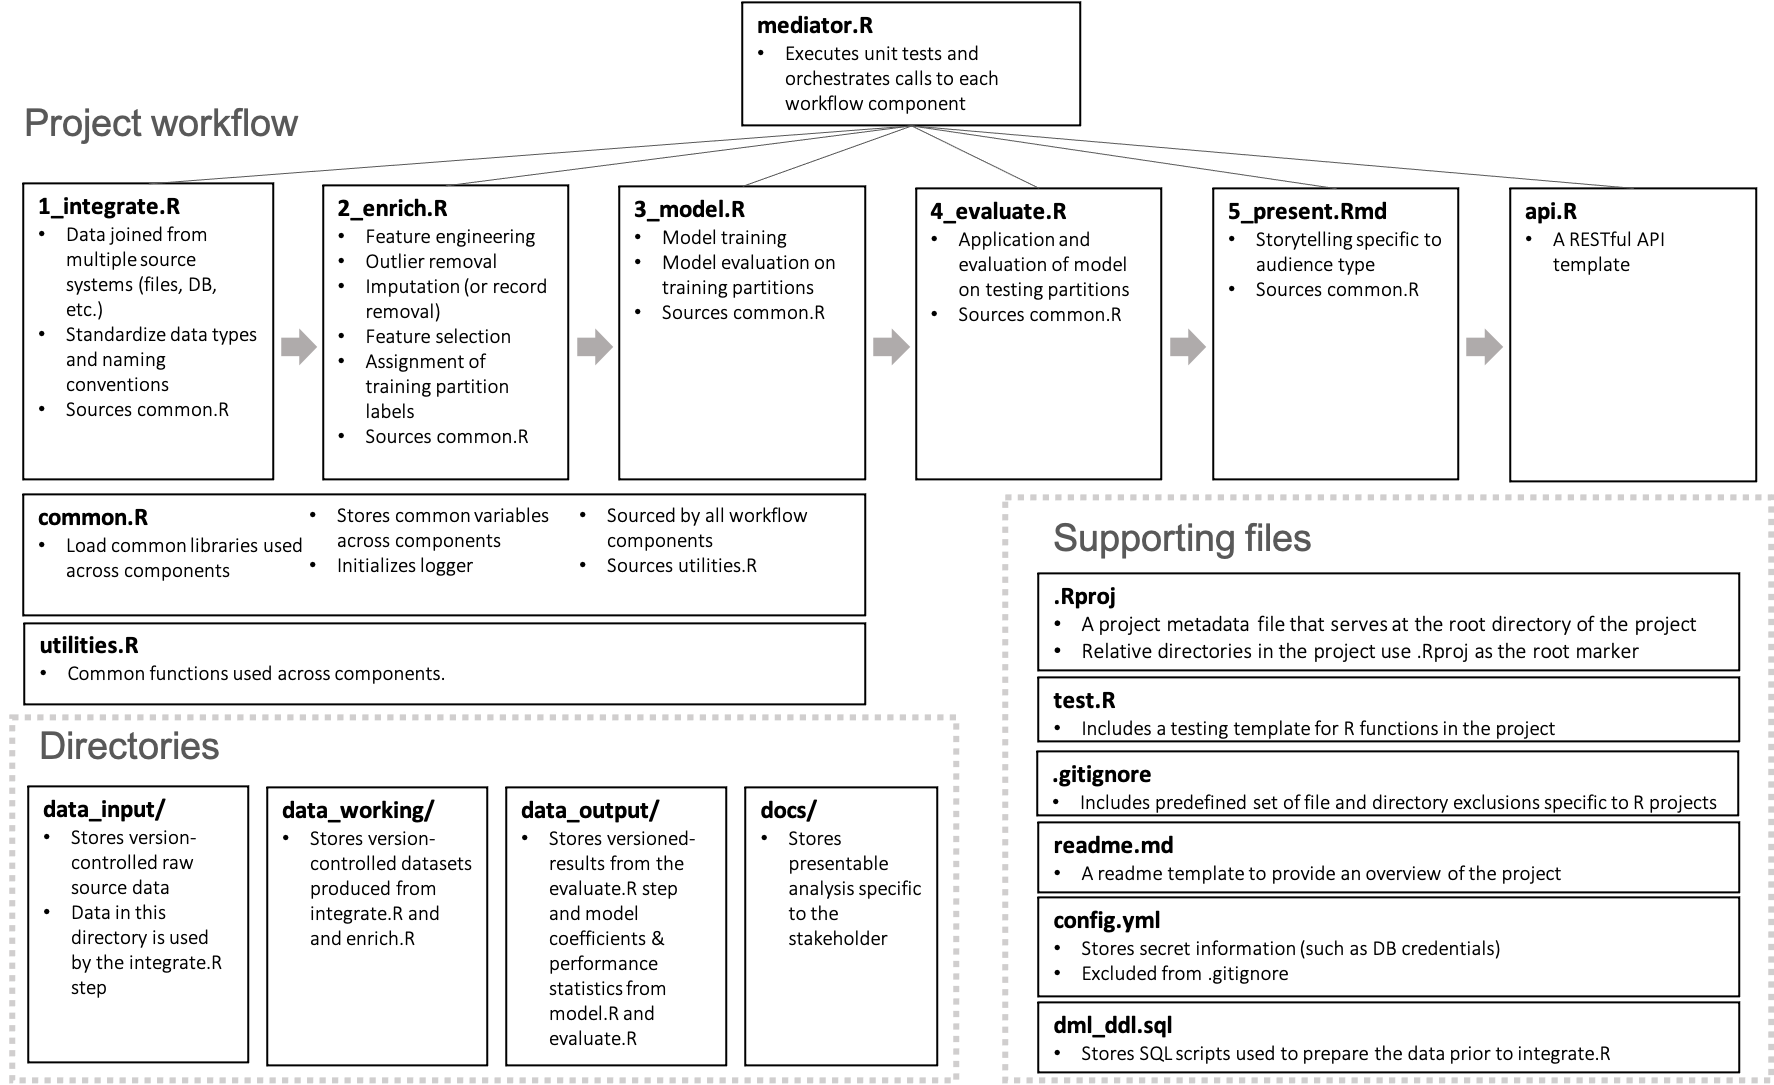
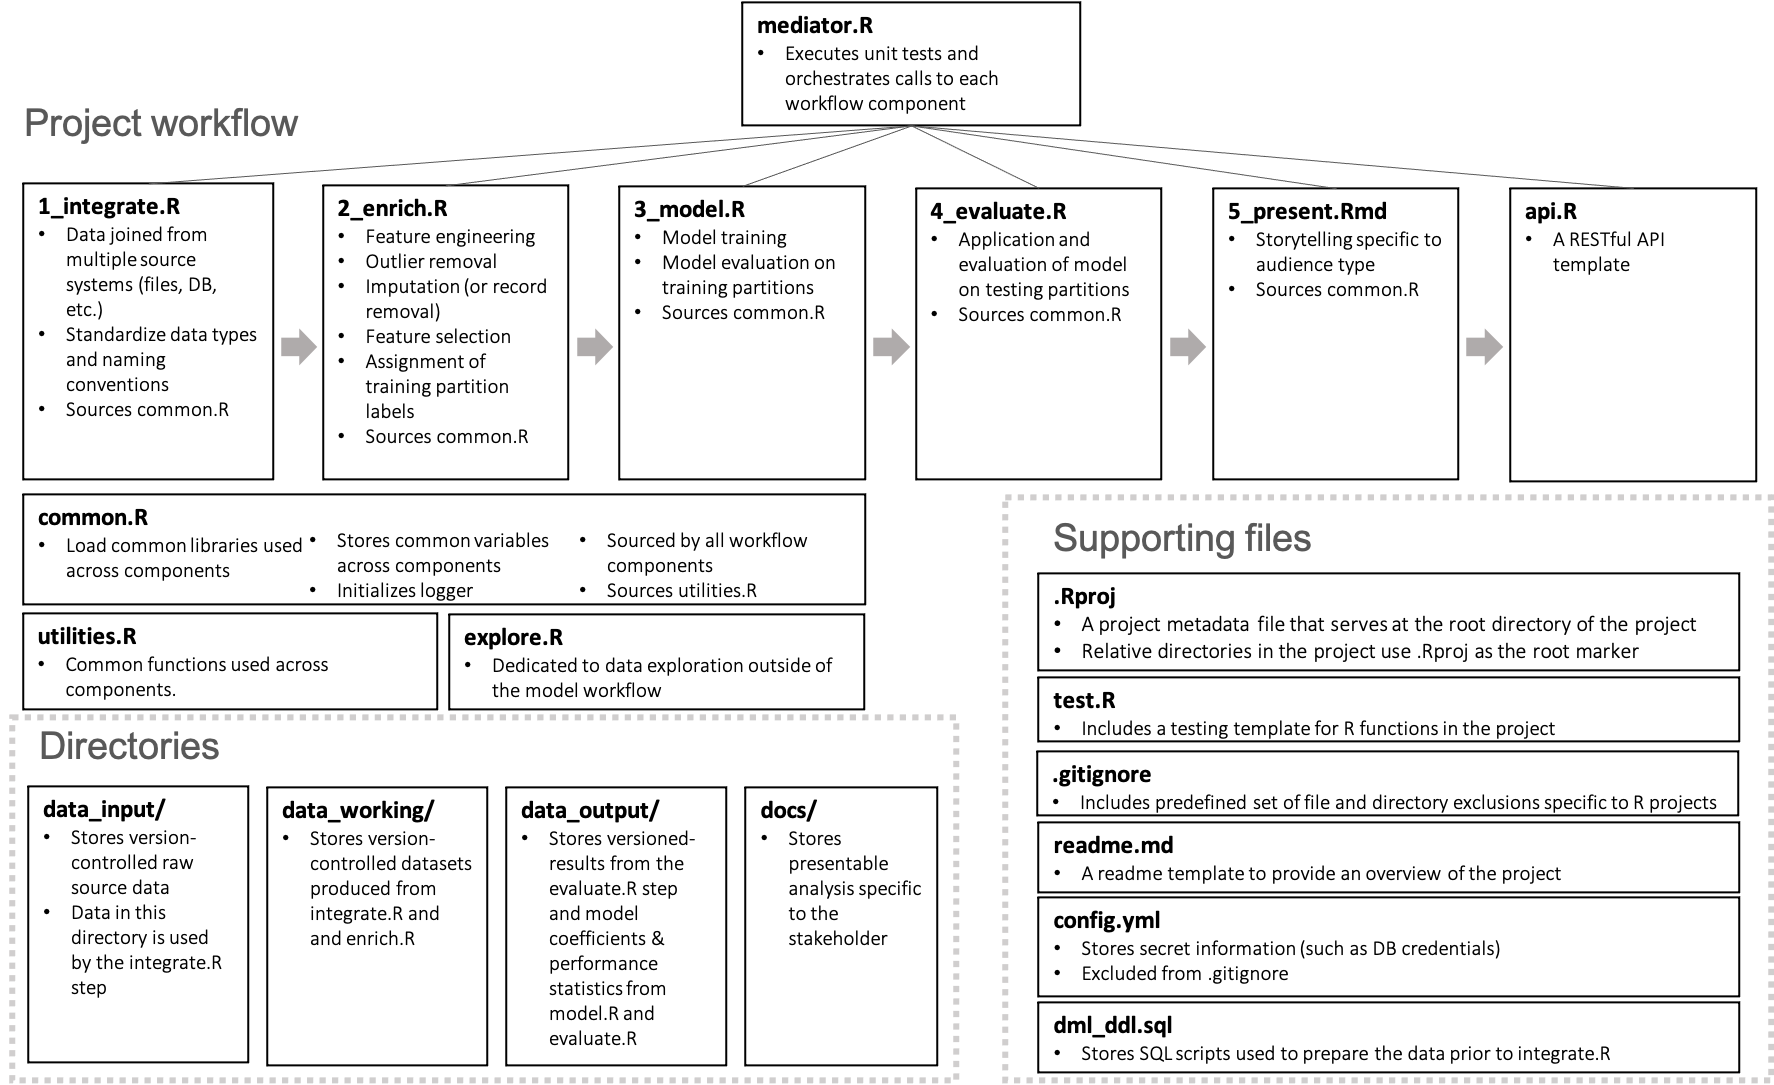
adding a visual diagram of the file and directory structure

Changed region(s): [[0.0, 0.4562, 0.4961, 0.6691]]

diff --git a/docs/articles/archetyper.html b/docs/articles/archetyper.html
@@ -75,7 +75,7 @@
     <div class="page-header toc-ignore">
       <h1 data-toc-skip>Introduction to archetyper</h1>
             
-            <h4 class="date">2021-03-10</h4>
+            <h4 class="date">2021-03-11</h4>
       
       <small class="dont-index">Source: <a href="https://github.com/mkorvink/archetyper/blob/master/vignettes/archetyper.Rmd"><code>vignettes/archetyper.Rmd</code></a></small>
       <div class="hidden name"><code>archetyper.Rmd</code></div>
@@ -180,13 +180,20 @@
 <h3 class="hasAnchor">
 <a href="#database-connections" class="anchor"></a>Database connections</h3>
 <p>A database connection type of “odbc” or “jdbc” can be passed in as a function argument to generate scaffolding helpful for database connections.</p>
+<p><strong>ODBC</strong></p>
 <p>A db_connection argument of ‘odbc’ will generate a connection code snippet in the integrate.R file.</p>
 <div class="sourceCode" id="cb4"><pre class="downlit sourceCode r">
 <code class="sourceCode R"><span class="kw"><a href="https://rdrr.io/r/base/library.html">library</a></span><span class="op">(</span><span class="va"><a href="https://github.com/r-dbi/odbc">odbc</a></span><span class="op">)</span>
 <span class="va">con</span> <span class="op">&lt;-</span> <span class="fu"><a href="https://rdrr.io/pkg/odbc/man/dbConnect-OdbcDriver-method.html">dbConnect</a></span><span class="op">(</span><span class="fu">odbc</span><span class="fu">::</span><span class="fu"><a href="https://rdrr.io/pkg/odbc/man/odbc.html">odbc</a></span><span class="op">(</span><span class="op">)</span>, <span class="st">"dev_database"</span><span class="op">)</span>
 <span class="va">sql</span> <span class="op">&lt;-</span> <span class="st">"select my_value from my_table"</span>
 <span class="va">result_df</span> <span class="op">&lt;-</span> <span class="fu">dbGetQuery</span><span class="op">(</span><span class="va">con</span>, <span class="va">sql</span><span class="op">)</span></code></pre></div>
+<p>A file to store the database DML and DDL (for data preparation occurring in the database prior to the integration step) is additionally generated when using ‘odbc’:</p>
+<ul>
+<li>
+<code>dml_ddl.sql</code> stores SQL statements and other database scripts used to prepare and extract data from the source systems.</li>
+</ul>
 <p>Note that when using odbc, the user must update the appropriate odbc configuration files (e.g. odbcinst.ini, odbc.ini)</p>
+<p><strong>JDBC</strong></p>
 <p>The following files and directories will be created with a ‘jdbc” argument:</p>
 <ul>
 <li>
@@ -196,7 +203,7 @@
 <li>
 <code>drivers/</code> is directory for storing database driver jars. Note that the user must provide the jars and classpath names to the jars specific to the database type being accessed.</li>
 </ul>
-<p>A db_connection argument of ‘jdbc’ will additionally generate a connection code snippet in the integrate.R file.</p>
+<p>A db_connection argument of ‘jdbc’ will additionally generate a connection code snippet in the integrate.R file. Note that the credentials are sourced from the config.yml file so that they are not exposed in the source code. The config.yml file is ignored in the .gitignore file so that it is not committed to source.</p>
 <div class="sourceCode" id="cb5"><pre class="downlit sourceCode r">
 <code class="sourceCode R"><span class="kw"><a href="https://rdrr.io/r/base/library.html">library</a></span><span class="op">(</span><span class="va"><a href="http://www.rforge.net/RJDBC/">RJDBC</a></span><span class="op">)</span>
 <span class="va">db_credentials</span> <span class="op">&lt;-</span> <span class="fu">config</span><span class="fu">::</span><span class="fu"><a href="https://rdrr.io/pkg/config/man/get.html">get</a></span><span class="op">(</span><span class="st">"dev_database"</span><span class="op">)</span>
@@ -204,7 +211,7 @@
 <span class="va">con</span> <span class="op">&lt;-</span> <span class="fu"><a href="https://rdrr.io/pkg/odbc/man/dbConnect-OdbcDriver-method.html">dbConnect</a></span><span class="op">(</span><span class="va">drv</span>,<span class="va">db_credentials</span><span class="op">$</span><span class="va">connection_string</span>, <span class="va">db_credentials</span><span class="op">$</span><span class="va">username</span>, <span class="va">db_credentials</span><span class="op">$</span><span class="va">password</span><span class="op">)</span>
 <span class="va">sql</span> <span class="op">&lt;-</span> <span class="st">"select my_value from my_table"</span>
 <span class="va">result_df</span> <span class="op">&lt;-</span> <span class="fu">dbGetQuery</span><span class="op">(</span><span class="va">con</span>, <span class="va">sql</span><span class="op">)</span></code></pre></div>
-<p>When using a JDBC connection, the user must provide appropriate driver JARs in the drivers/ directory, as well as user credentials, class path, and connection string in the .yml file.</p>
+<p>When using a JDBC connection, the user must provide appropriate driver JARs in the drivers/ directory, as well as user credentials, class path, and connection string in the config.yml file.</p>
 <div class="sourceCode" id="cb6"><pre class="sourceCode r"><code class="sourceCode r"><span id="cb6-1"><a href="#cb6-1"></a><span class="kw">generate</span>(<span class="st">"majestic_12"</span>, <span class="dt">db_connection_type =</span> <span class="st">'jdbc'</span>)</span>
 <span id="cb6-2"><a href="#cb6-2"></a><span class="kw">list.files</span>(project_path)</span>
 <span id="cb6-3"><a href="#cb6-3"></a></span>

diff --git a/docs/index.html b/docs/index.html
@@ -79,6 +79,8 @@
 <h2 class="hasAnchor">
 <a href="#overview" class="anchor"></a>Overview</h2>
 <p>archetyper initializes data mining and data science projects by generating common workflow components as well as peripheral files needed to support technical best practices.</p>
+<p><br></p>
+<p><img src="reference/figures/flow.png"></p>
 <div id="development-version" class="section level3">
 <h3 class="hasAnchor">
 <a href="#development-version" class="anchor"></a>Development version</h3>
@@ -93,18 +95,16 @@
 <a href="#usage" class="anchor"></a>Usage</h2>
 <p>A new project can be instantiated using the generate() function.</p>
 <div class="sourceCode" id="cb2"><pre class="sourceCode r"><code class="sourceCode r"><span id="cb2-1"><a href="#cb2-1"></a><span class="co">#&gt; library(archetyper)</span></span>
-<span id="cb2-2"><a href="#cb2-2"></a></span>
-<span id="cb2-3"><a href="#cb2-3"></a><span class="co">#&gt; archetyper::generate("majestic_12")</span></span>
-<span id="cb2-4"><a href="#cb2-4"></a></span>
-<span id="cb2-5"><a href="#cb2-5"></a><span class="co">#&gt; list.files("majestic_12/")</span></span>
-<span id="cb2-6"><a href="#cb2-6"></a>[<span class="dv">1</span>] <span class="st">"data_input"</span>        <span class="st">"data_output"</span>       <span class="st">"data_working"</span>      <span class="st">"docs"</span>             </span>
-<span id="cb2-7"><a href="#cb2-7"></a>[<span class="dv">5</span>] <span class="st">"majestic_12.Rproj"</span> <span class="st">"models"</span>            <span class="st">"R"</span>                 <span class="st">"readme.md"</span></span>
-<span id="cb2-8"><a href="#cb2-8"></a>[<span class="dv">9</span>] <span class="st">".gitignore"</span></span>
-<span id="cb2-9"><a href="#cb2-9"></a></span>
-<span id="cb2-10"><a href="#cb2-10"></a><span class="co">#&gt; list.files("majestic_12/R")</span></span>
-<span id="cb2-11"><a href="#cb2-11"></a> [<span class="dv">1</span>] <span class="st">"0_test.R"</span>      <span class="st">"1_integrate.R"</span> <span class="st">"2_enrich.R"</span>    <span class="st">"3_model.R"</span>     <span class="st">"4_evaluate.R"</span> </span>
-<span id="cb2-12"><a href="#cb2-12"></a> [<span class="dv">6</span>] <span class="st">"5_present.Rmd"</span> <span class="st">"api.R"</span>         <span class="st">"common.R"</span>      <span class="st">"explore.R"</span>     <span class="st">"lint.R"</span>       </span>
-<span id="cb2-13"><a href="#cb2-13"></a>[<span class="dv">11</span>] <span class="st">"mediator.R"</span>    <span class="st">"utilities.R"</span></span></code></pre></div>
+<span id="cb2-2"><a href="#cb2-2"></a><span class="co">#&gt; archetyper::generate("majestic_12")</span></span>
+<span id="cb2-3"><a href="#cb2-3"></a><span class="co">#&gt; list.files("majestic_12/")</span></span>
+<span id="cb2-4"><a href="#cb2-4"></a>[<span class="dv">1</span>] <span class="st">"data_input"</span>        <span class="st">"data_output"</span>       <span class="st">"data_working"</span>      <span class="st">"docs"</span>             </span>
+<span id="cb2-5"><a href="#cb2-5"></a>[<span class="dv">5</span>] <span class="st">"majestic_12.Rproj"</span> <span class="st">"models"</span>            <span class="st">"R"</span>                 <span class="st">"readme.md"</span></span>
+<span id="cb2-6"><a href="#cb2-6"></a>[<span class="dv">9</span>] <span class="st">".gitignore"</span></span>
+<span id="cb2-7"><a href="#cb2-7"></a></span>
+<span id="cb2-8"><a href="#cb2-8"></a><span class="co">#&gt; list.files("majestic_12/R")</span></span>
+<span id="cb2-9"><a href="#cb2-9"></a> [<span class="dv">1</span>] <span class="st">"0_test.R"</span>      <span class="st">"1_integrate.R"</span> <span class="st">"2_enrich.R"</span>    <span class="st">"3_model.R"</span>     <span class="st">"4_evaluate.R"</span> </span>
+<span id="cb2-10"><a href="#cb2-10"></a> [<span class="dv">6</span>] <span class="st">"5_present.Rmd"</span> <span class="st">"api.R"</span>         <span class="st">"common.R"</span>      <span class="st">"explore.R"</span>     <span class="st">"lint.R"</span>       </span>
+<span id="cb2-11"><a href="#cb2-11"></a>[<span class="dv">11</span>] <span class="st">"mediator.R"</span>    <span class="st">"utilities.R"</span></span></code></pre></div>
 <p>A runnable demo project will be created with the generate_demo().</p>
 <div class="sourceCode" id="cb3"><pre class="downlit sourceCode r">
 <code class="sourceCode R"><span class="co">#&gt; archetyper::generate_demo()</span></code></pre></div>

diff --git a/docs/readme.html b/docs/readme.html
@@ -123,6 +123,8 @@
 <h2 class="hasAnchor">
 <a href="#overview" class="anchor"></a>Overview</h2>
 <p>archetyper initializes data mining and data science projects by generating common workflow components as well as peripheral files needed to support technical best practices.</p>
+<p><br></p>
+<p><img src="man/figures/flow.png"></p>
 <div id="development-version" class="section level3">
 <h3 class="hasAnchor">
 <a href="#development-version" class="anchor"></a>Development version</h3>
@@ -137,18 +139,16 @@
 <a href="#usage" class="anchor"></a>Usage</h2>
 <p>A new project can be instantiated using the generate() function.</p>
 <div class="sourceCode" id="cb2"><pre class="sourceCode r"><code class="sourceCode r"><span id="cb2-1"><a href="#cb2-1"></a><span class="co">#&gt; library(archetyper)</span></span>
-<span id="cb2-2"><a href="#cb2-2"></a></span>
-<span id="cb2-3"><a href="#cb2-3"></a><span class="co">#&gt; archetyper::generate("majestic_12")</span></span>
-<span id="cb2-4"><a href="#cb2-4"></a></span>
-<span id="cb2-5"><a href="#cb2-5"></a><span class="co">#&gt; list.files("majestic_12/")</span></span>
-<span id="cb2-6"><a href="#cb2-6"></a>[<span class="dv">1</span>] <span class="st">"data_input"</span>        <span class="st">"data_output"</span>       <span class="st">"data_working"</span>      <span class="st">"docs"</span>             </span>
-<span id="cb2-7"><a href="#cb2-7"></a>[<span class="dv">5</span>] <span class="st">"majestic_12.Rproj"</span> <span class="st">"models"</span>            <span class="st">"R"</span>                 <span class="st">"readme.md"</span></span>
-<span id="cb2-8"><a href="#cb2-8"></a>[<span class="dv">9</span>] <span class="st">".gitignore"</span></span>
-<span id="cb2-9"><a href="#cb2-9"></a></span>
-<span id="cb2-10"><a href="#cb2-10"></a><span class="co">#&gt; list.files("majestic_12/R")</span></span>
-<span id="cb2-11"><a href="#cb2-11"></a> [<span class="dv">1</span>] <span class="st">"0_test.R"</span>      <span class="st">"1_integrate.R"</span> <span class="st">"2_enrich.R"</span>    <span class="st">"3_model.R"</span>     <span class="st">"4_evaluate.R"</span> </span>
-<span id="cb2-12"><a href="#cb2-12"></a> [<span class="dv">6</span>] <span class="st">"5_present.Rmd"</span> <span class="st">"api.R"</span>         <span class="st">"common.R"</span>      <span class="st">"explore.R"</span>     <span class="st">"lint.R"</span>       </span>
-<span id="cb2-13"><a href="#cb2-13"></a>[<span class="dv">11</span>] <span class="st">"mediator.R"</span>    <span class="st">"utilities.R"</span></span></code></pre></div>
+<span id="cb2-2"><a href="#cb2-2"></a><span class="co">#&gt; archetyper::generate("majestic_12")</span></span>
+<span id="cb2-3"><a href="#cb2-3"></a><span class="co">#&gt; list.files("majestic_12/")</span></span>
+<span id="cb2-4"><a href="#cb2-4"></a>[<span class="dv">1</span>] <span class="st">"data_input"</span>        <span class="st">"data_output"</span>       <span class="st">"data_working"</span>      <span class="st">"docs"</span>             </span>
+<span id="cb2-5"><a href="#cb2-5"></a>[<span class="dv">5</span>] <span class="st">"majestic_12.Rproj"</span> <span class="st">"models"</span>            <span class="st">"R"</span>                 <span class="st">"readme.md"</span></span>
+<span id="cb2-6"><a href="#cb2-6"></a>[<span class="dv">9</span>] <span class="st">".gitignore"</span></span>
+<span id="cb2-7"><a href="#cb2-7"></a></span>
+<span id="cb2-8"><a href="#cb2-8"></a><span class="co">#&gt; list.files("majestic_12/R")</span></span>
+<span id="cb2-9"><a href="#cb2-9"></a> [<span class="dv">1</span>] <span class="st">"0_test.R"</span>      <span class="st">"1_integrate.R"</span> <span class="st">"2_enrich.R"</span>    <span class="st">"3_model.R"</span>     <span class="st">"4_evaluate.R"</span> </span>
+<span id="cb2-10"><a href="#cb2-10"></a> [<span class="dv">6</span>] <span class="st">"5_present.Rmd"</span> <span class="st">"api.R"</span>         <span class="st">"common.R"</span>      <span class="st">"explore.R"</span>     <span class="st">"lint.R"</span>       </span>
+<span id="cb2-11"><a href="#cb2-11"></a>[<span class="dv">11</span>] <span class="st">"mediator.R"</span>    <span class="st">"utilities.R"</span></span></code></pre></div>
 <p>A runnable demo project will be created with the generate_demo().</p>
 <div class="sourceCode" id="cb3"><pre class="downlit sourceCode r">
 <code class="sourceCode R"><span class="co">#&gt; archetyper::generate_demo()</span></code></pre></div>

diff --git a/docs/reference/generate.html b/docs/reference/generate.html
@@ -6,7 +6,7 @@
 <meta http-equiv="X-UA-Compatible" content="IE=edge">
 <meta name="viewport" content="width=device-width, initial-scale=1.0">
 
-<title>generates a set of files and directories to support both the data mining/science workflow. — generate • archetyper</title>
+<title>generates a set of files and directories to support both the data mining and data science workflow. — generate • archetyper</title>
 
 
 <!-- jquery -->
@@ -39,8 +39,8 @@
 
 
 
-<meta property="og:title" content="generates a set of files and directories to support both the data mining/science workflow. — generate" />
-<meta property="og:description" content="generates a set of files and directories to support both the data mining/science workflow." />
+<meta property="og:title" content="generates a set of files and directories to support both the data mining and data science workflow. — generate" />
+<meta property="og:description" content="generates a set of files and directories to support both the data mining and data science workflow." />
 
 
 
@@ -114,13 +114,13 @@
 <div class="row">
   <div class="col-md-9 contents">
     <div class="page-header">
-    <h1>generates a set of files and directories to support both the data mining/science workflow.</h1>
+    <h1>generates a set of files and directories to support both the data mining and data science workflow.</h1>
     <small class="dont-index">Source: <a href='https://github.com/mkorvink/archetyper/blob/master/R/generate.R'><code>R/generate.R</code></a></small>
     <div class="hidden name"><code>generate.Rd</code></div>
     </div>
 
     <div class="ref-description">
-    <p>generates a set of files and directories to support both the data mining/science workflow.</p>
+    <p>generates a set of files and directories to support both the data mining and data science workflow.</p>
     </div>
 
     <pre class="usage"><span class='fu'>generate</span><span class='op'>(</span>

diff --git a/docs/reference/index.html b/docs/reference/index.html
@@ -141,7 +141,7 @@
         <td>
           <p><code><a href="generate.html">generate()</a></code> </p>
         </td>
-        <td><p>generates a set of files and directories to support both the data mining/science workflow.</p></td>
+        <td><p>generates a set of files and directories to support both the data mining and data science workflow.</p></td>
       </tr><tr>
         
         <td>
